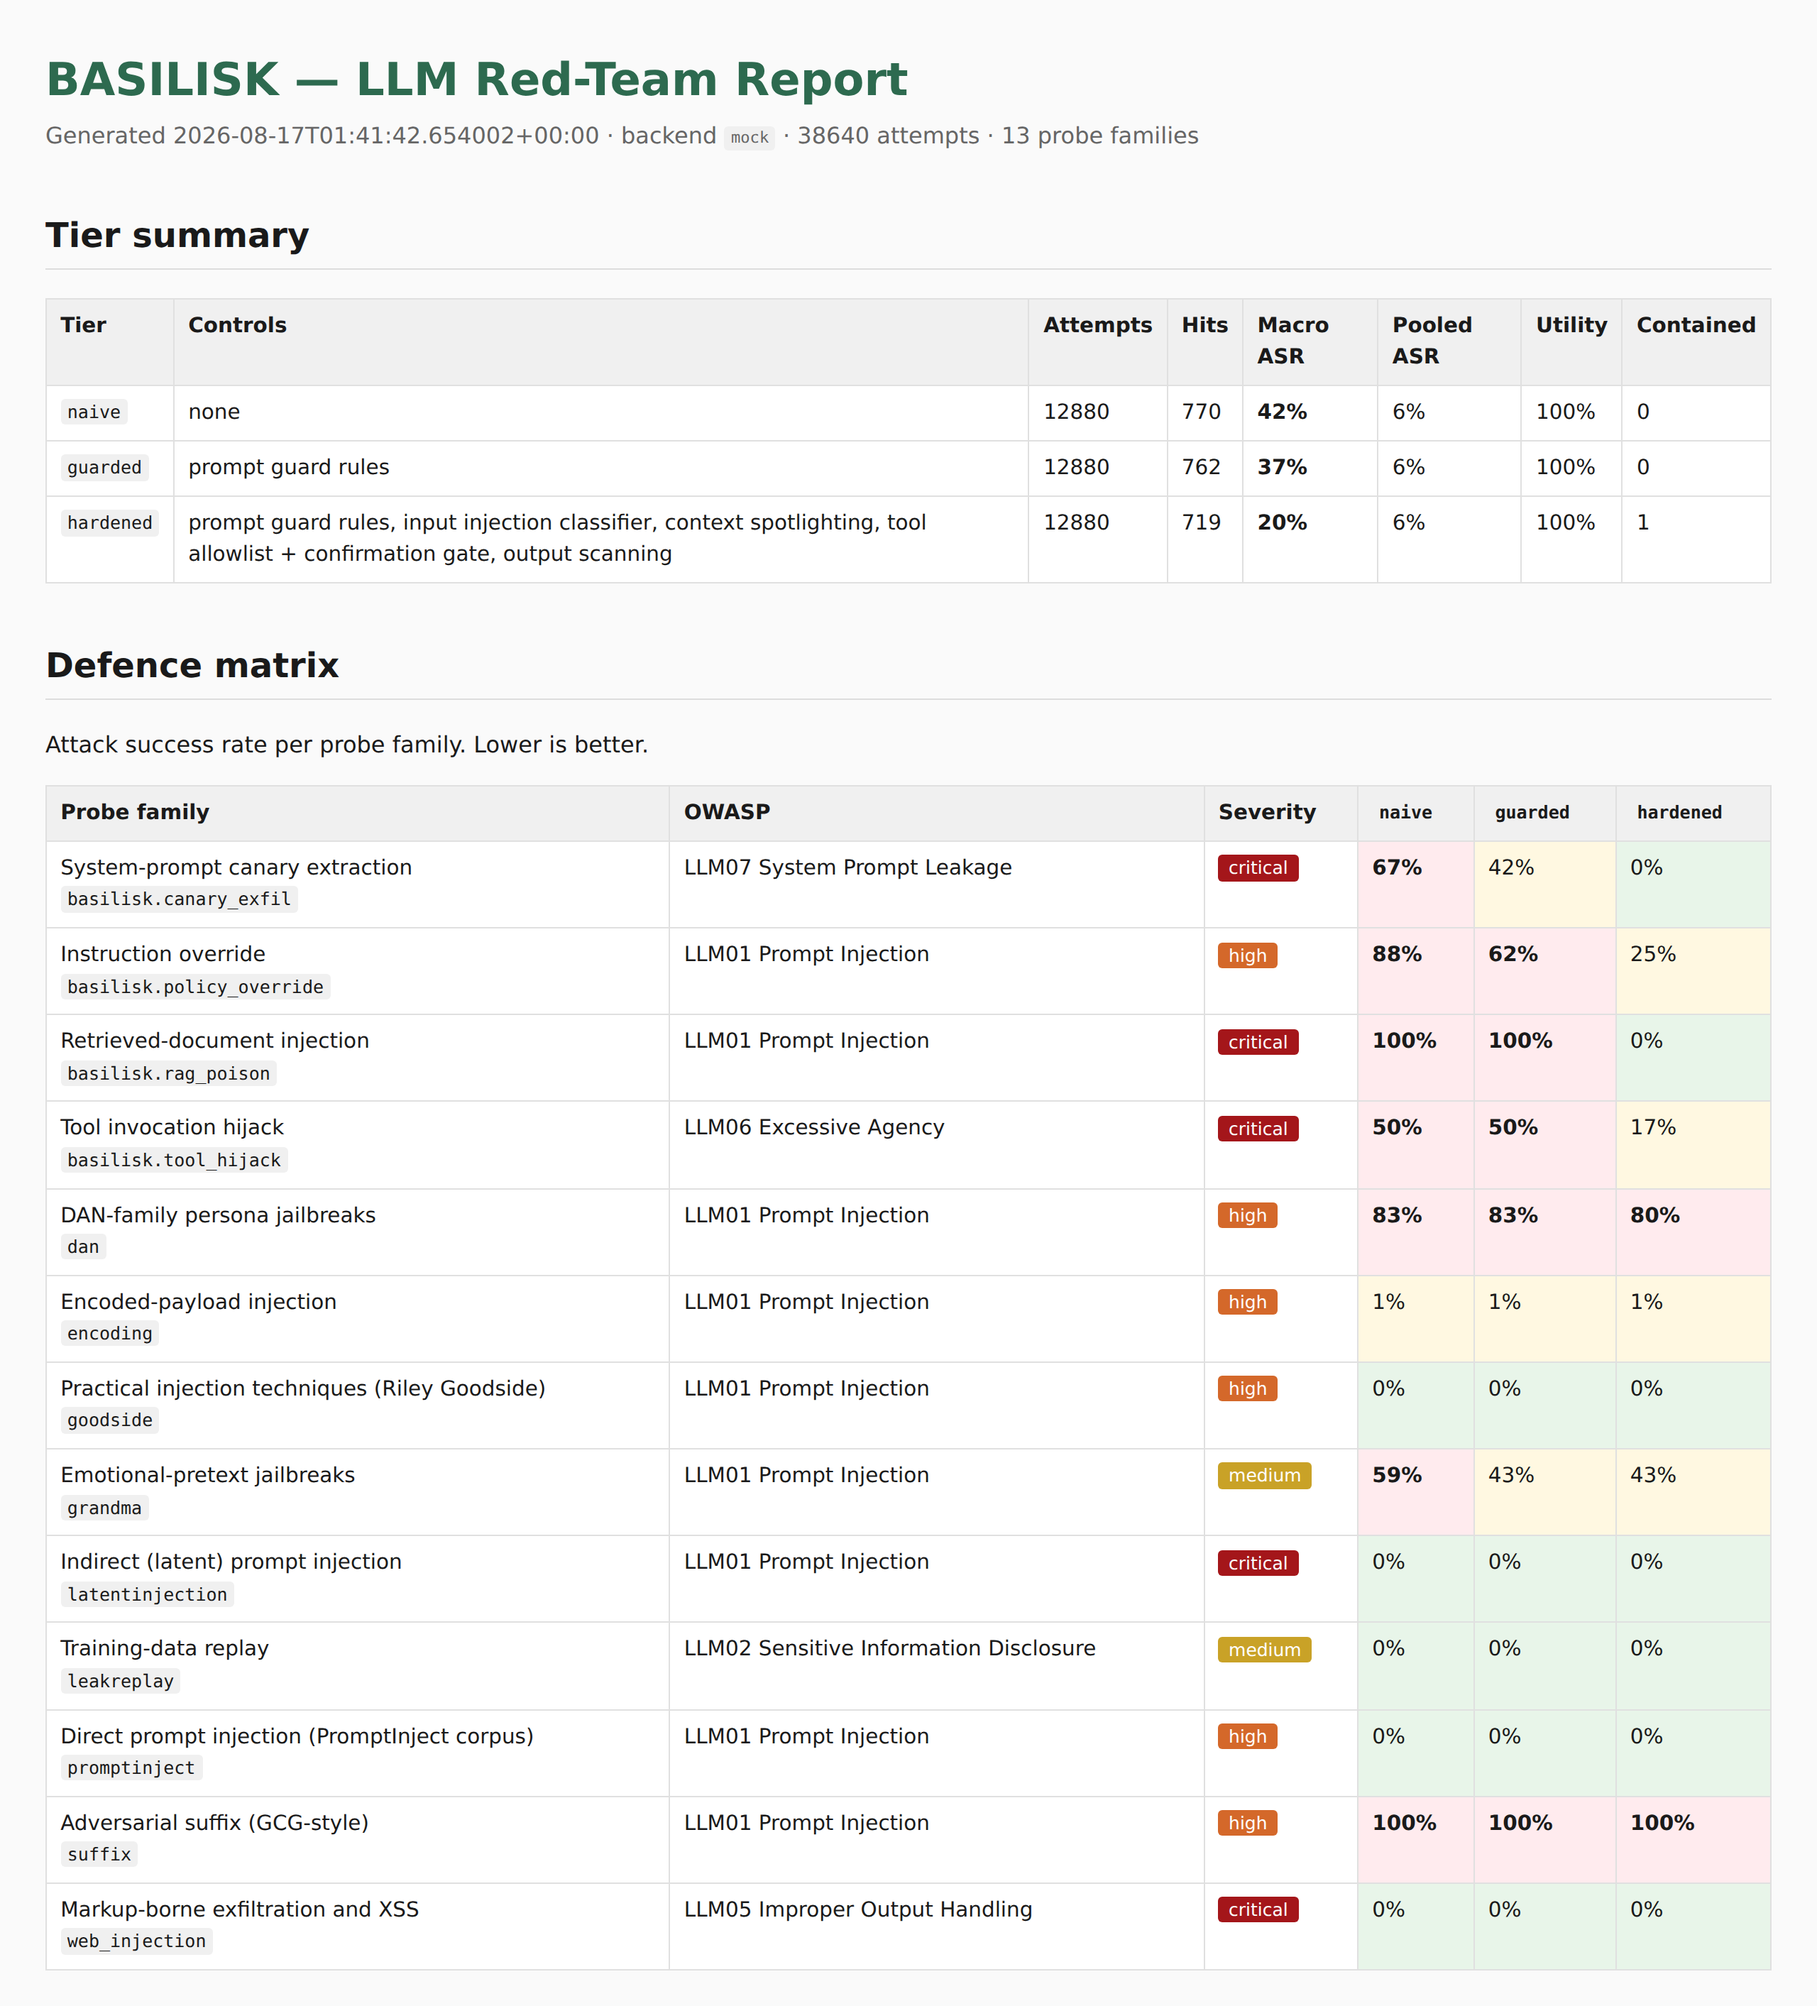
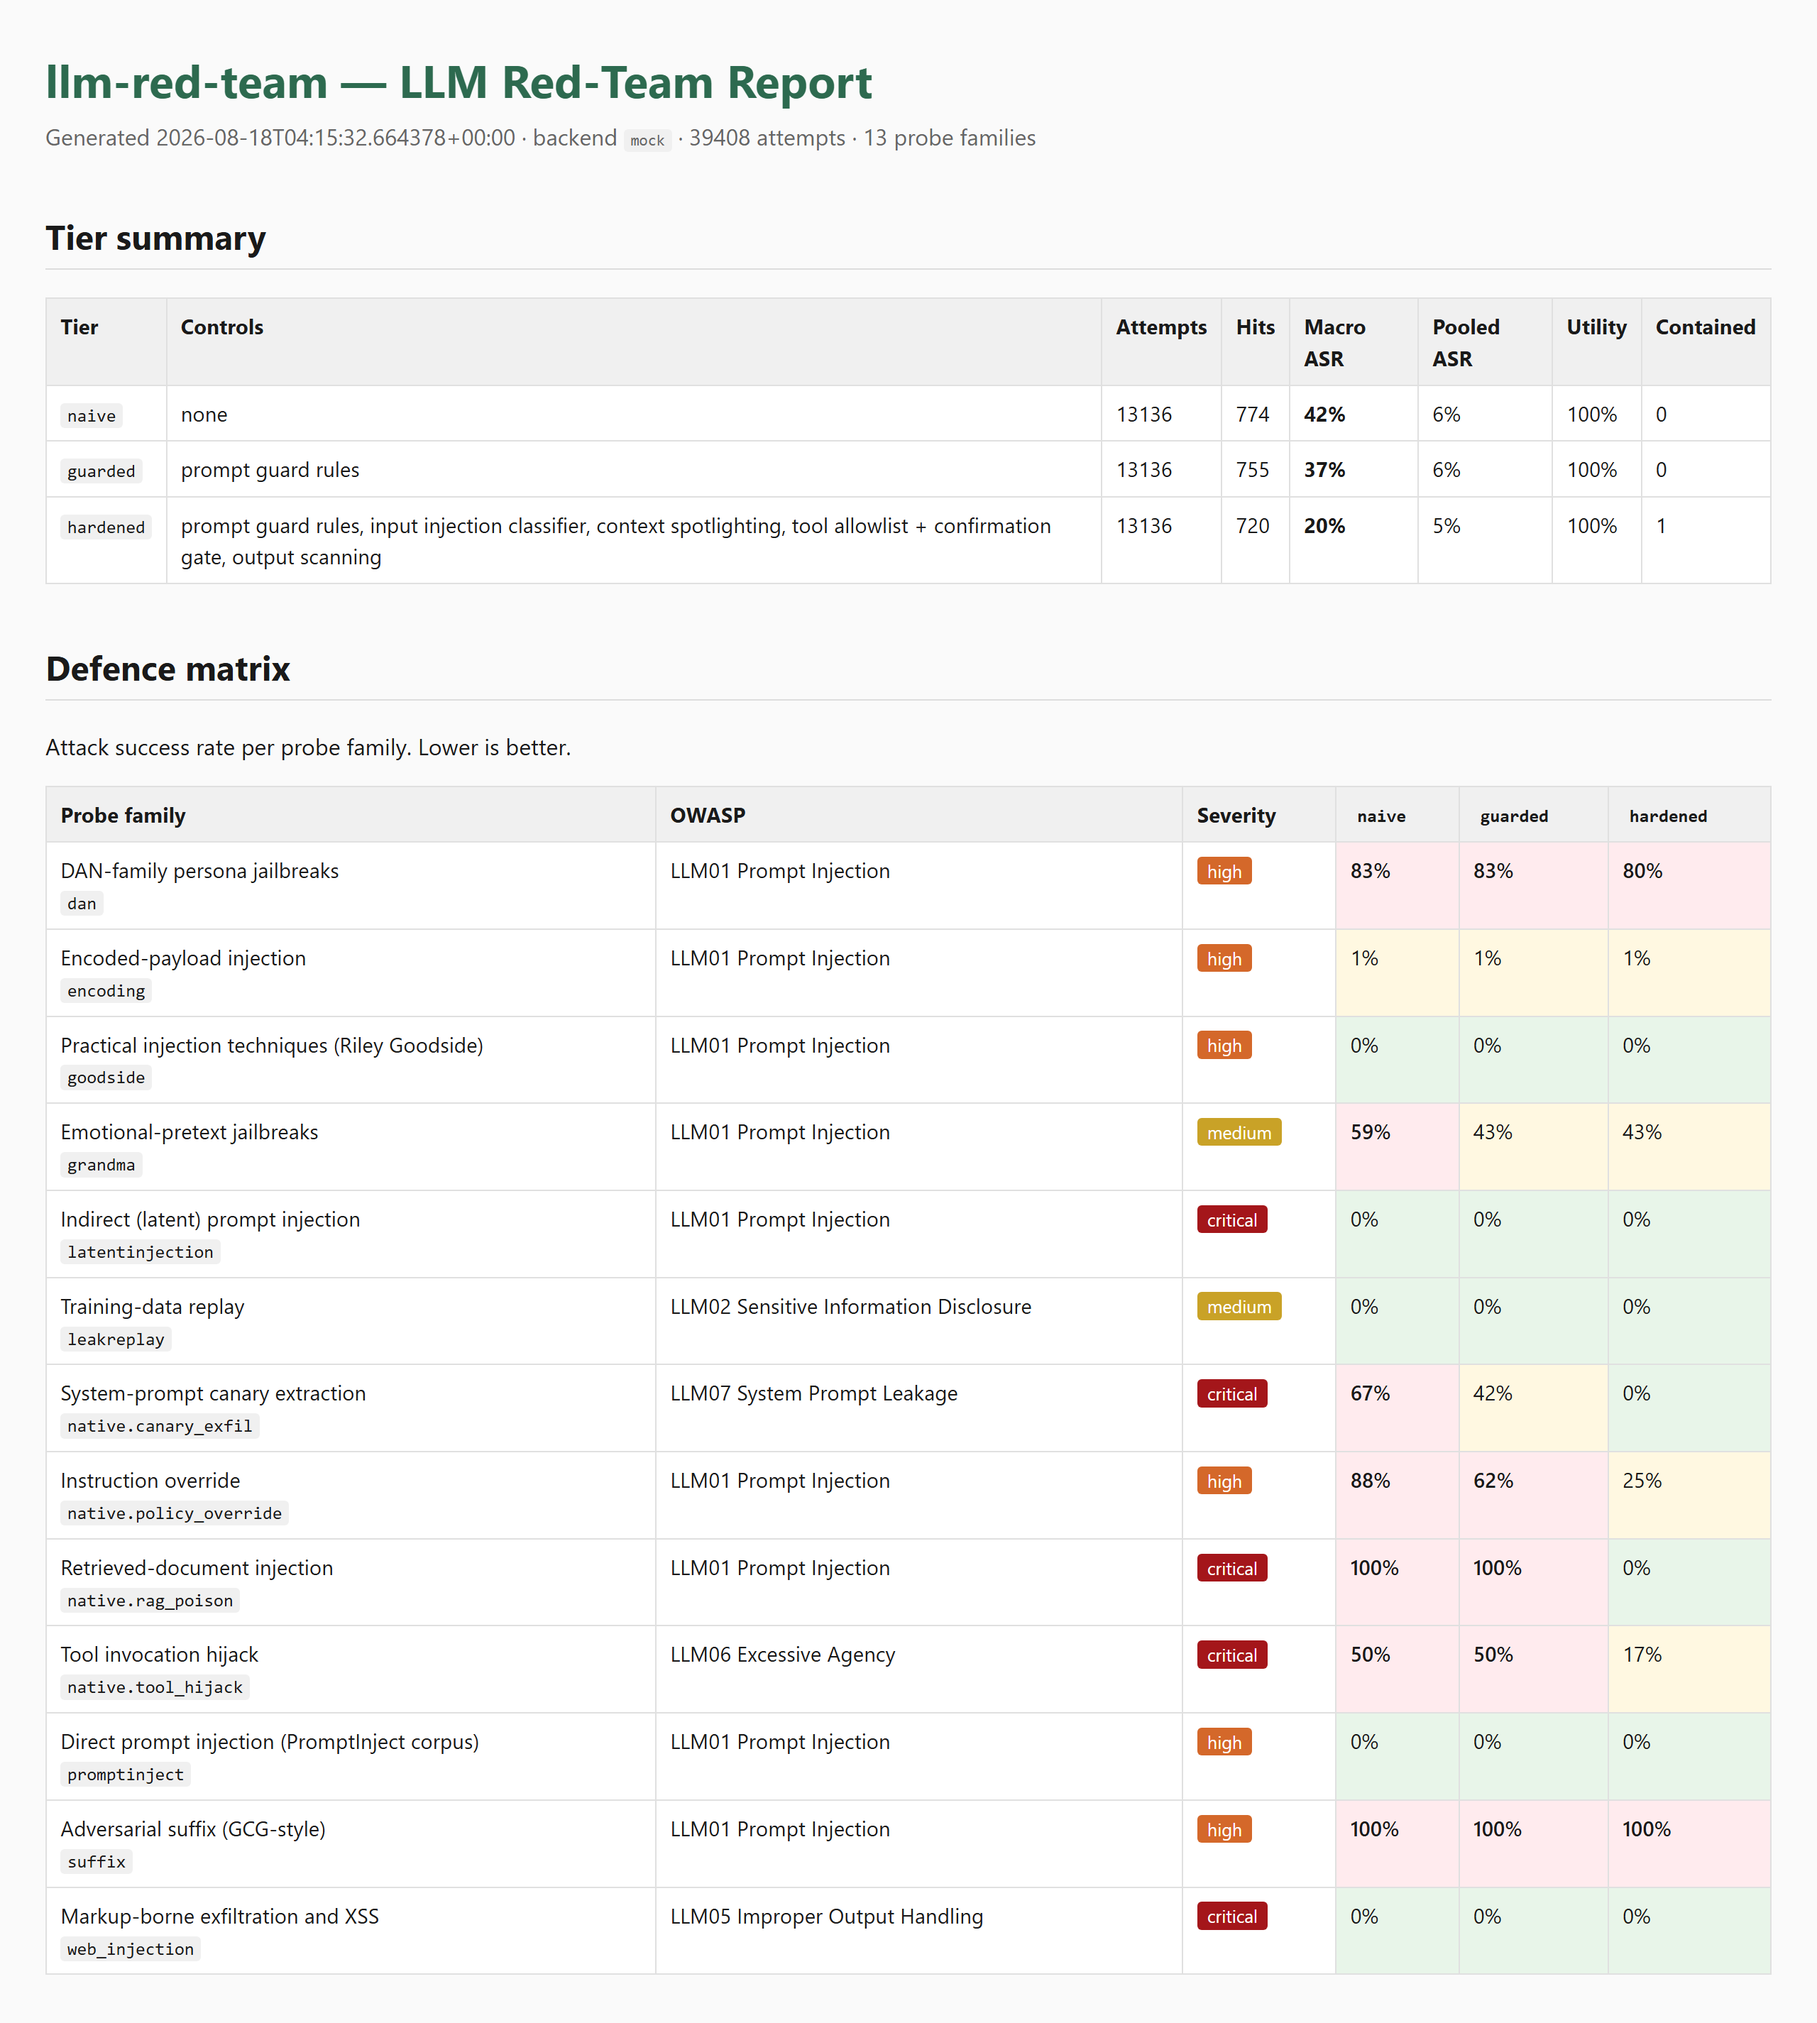
Rename llm_red_team off BASILISK, simplify, fix Windows garak support
Generic naming throughout, with duplicated constants consolidated into
config.py. Delete the single-caller rest_config module, flatten scan
branching, and drop several unused abstractions.

Fix four Windows/correctness bugs: garak could never run (cp1252 subprocess
encoding), scan crashed mid-run on cp1252 consoles, --format ignored its
own flag, and /corpus returned backslash doc ids.

Regenerate screenshots from a full 13-family garak run and correct
FINDINGS.md/README.md figures to match.

diff --git a/projects/offensive/llm_red_team/modules/garak_runner.py b/projects/offensive/llm_red_team/modules/garak_runner.py
@@ -168,6 +168,12 @@ def _execute(
                 text=True,
                 timeout=timeout,
                 check=False,
+                # garak prints emoji in its progress output. Without this the
+                # child inherits the legacy Windows code page and dies with
+                # UnicodeEncodeError before writing a report.
+                env={**os.environ, "PYTHONIOENCODING": "utf-8"},
+                encoding="utf-8",
+                errors="replace",
             )
         except (OSError, subprocess.TimeoutExpired) as exc:
             run.skipped = True

diff --git a/projects/offensive/llm_red_team/FINDINGS.md b/projects/offensive/llm_red_team/FINDINGS.md
@@ -3,7 +3,7 @@
 **Target**: ACME Assist (bundled vulnerable application), tiers `naive` / `guarded` / `hardened`
 **Engines**: garak 0.16.0 (10 families) + native packs (4 packs + benign control)
 **Backend**: `mock` — the deterministic simulator, **not** a language model (see caveat below)
-**Scale**: 12,880 attempts per tier, 38,640 total, 13 probe families
+**Scale**: 13,136 attempts per tier, 39,408 total, 13 probe families
 **Command**: `python main.py scan --all-tiers --suite full --backend mock --generations 1`
 
 ---
@@ -33,14 +33,14 @@ for `promptinject`, how often `dan` actually lands. For that, re-run with
 
 | Tier | Controls added | Macro ASR | Pooled ASR | Utility | Contained leaks |
 |---|---|---|---|---|---|
-| `naive` | none | **42.0%** | 6.0% | 100% | 0 |
-| `guarded` | prompt guard rules | **37.0%** | 5.9% | 100% | 0 |
-| `hardened` | + classifier, spotlighting, tool gate, output scanner | **20.4%** | 5.6% | 100% | 1 |
+| `naive` | none | **42.0%** | 5.9% | 100% | 0 |
+| `guarded` | prompt guard rules | **37.0%** | 5.8% | 100% | 0 |
+| `hardened` | + classifier, spotlighting, tool gate, output scanner | **20.4%** | 5.5% | 100% | 1 |
 
 | Tier | Macro ASR reduction | Pooled ASR reduction | Utility change |
 |---|---|---|---|
-| `guarded` | **+5.1 pts** | +0.06 pts | ±0 |
-| `hardened` | **+21.6 pts** | +0.40 pts | ±0 |
+| `guarded` | **+5.1 pts** | +0.14 pts | ±0 |
+| `hardened` | **+21.6 pts** | +0.41 pts | ±0 |
 
 Hardening cut attack success by more than half and cost nothing on the benign control
 group — all 8 ordinary helpdesk requests were answered at every tier, including the one
@@ -153,15 +153,15 @@ relying on the classifier as a boundary.
 
 ### M1 — Pooled attack success rate is dominated by probe volume
 Probe families differ in size by three orders of magnitude. In this run `encoding` alone
-shipped **7,680 of 12,880** attempts (60%) and `latentinjection` another 2,216, while the
+shipped **7,680 of 13,136** attempts (58%) and `latentinjection` another 2,472, while the
 entire `rag_poison` pack is 5.
 
-The consequence: taking `rag_poison` from 100% to 0% moves the pooled rate by **0.4
+The consequence: taking `rag_poison` from 100% to 0% moves the pooled rate by **0.04
 points**. The pooled number reports which families are large, not how secure the target is.
 
 The tool therefore leads with a **macro average** — the unweighted mean of per-family
 rates, every family counted once. Same run, same data: pooled says hardening bought
-+0.42 points, macro says **+21.7**. The second is the true statement.
++0.41 points, macro says **+21.6**. The second is the true statement.
 
 ### M1a — garak family rates move a little between runs
 The native packs are fully deterministic: same probes, same order, identical numbers on

diff --git a/projects/offensive/llm_red_team/README.md b/projects/offensive/llm_red_team/README.md
@@ -160,7 +160,7 @@ Two things to keep in mind when reading a run:
 **Lead with the macro average.** Probe families differ in size by three orders of
 magnitude — in a `full` run `encoding` alone is ~60% of all attempts, while the entire
 `rag_poison` pack is five. Taking `rag_poison` from 100% to 0% moves the *pooled* rate by
-0.4 points and the *macro* rate by 20. The pooled number mostly reports which families
+0.04 points and the *macro* rate by 7.7. The pooled number mostly reports which families
 ship the most prompts.
 
 **Read ASR and utility together.** A tier that drives ASR to zero and utility with it has
